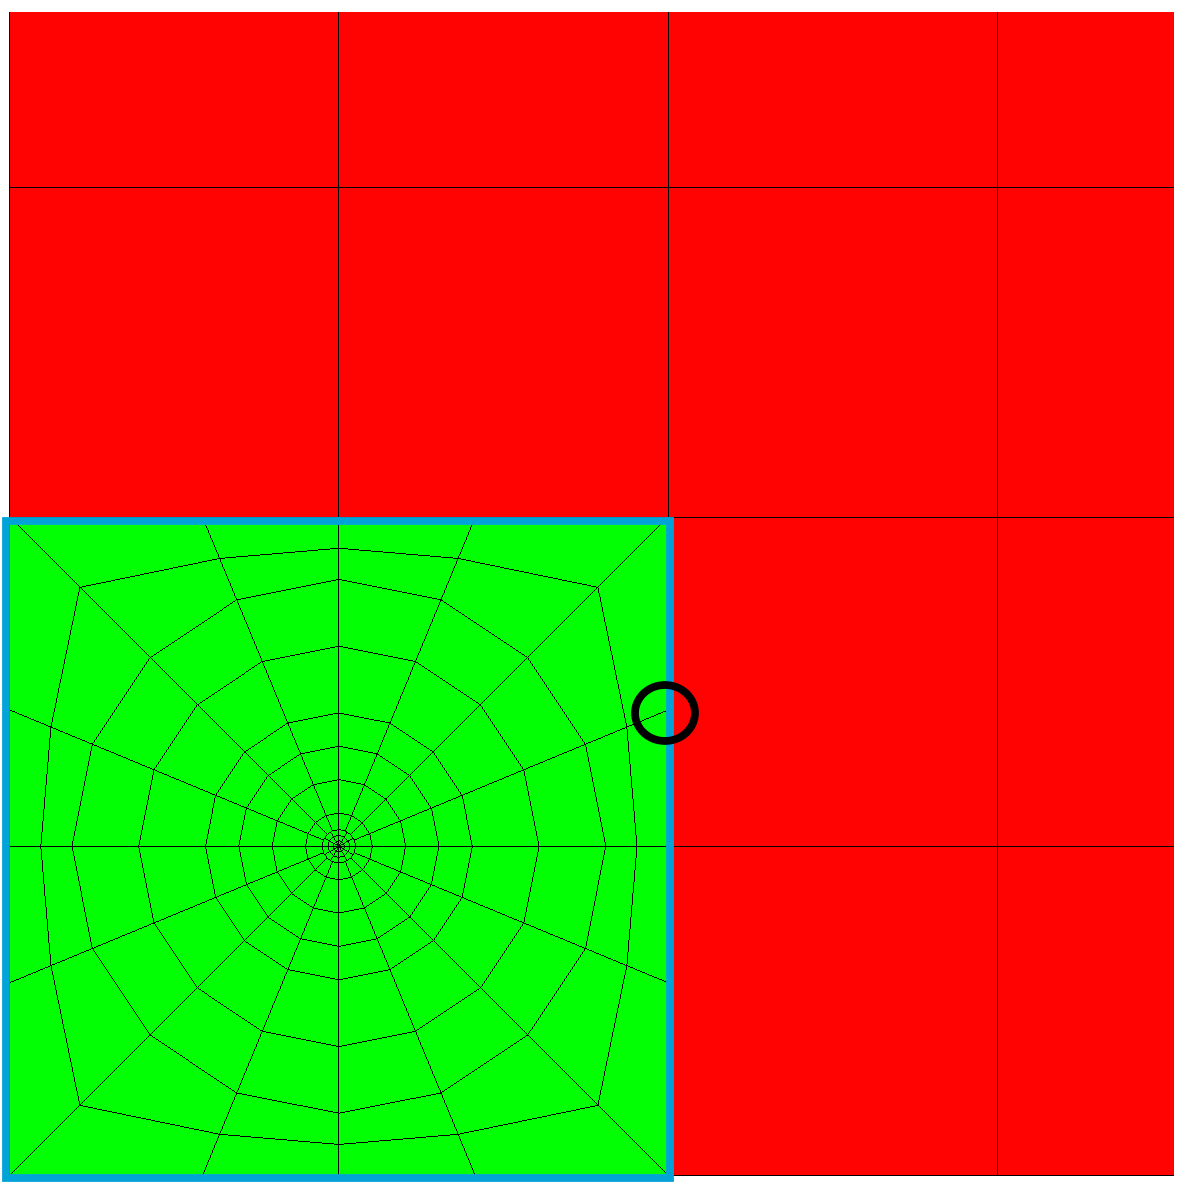
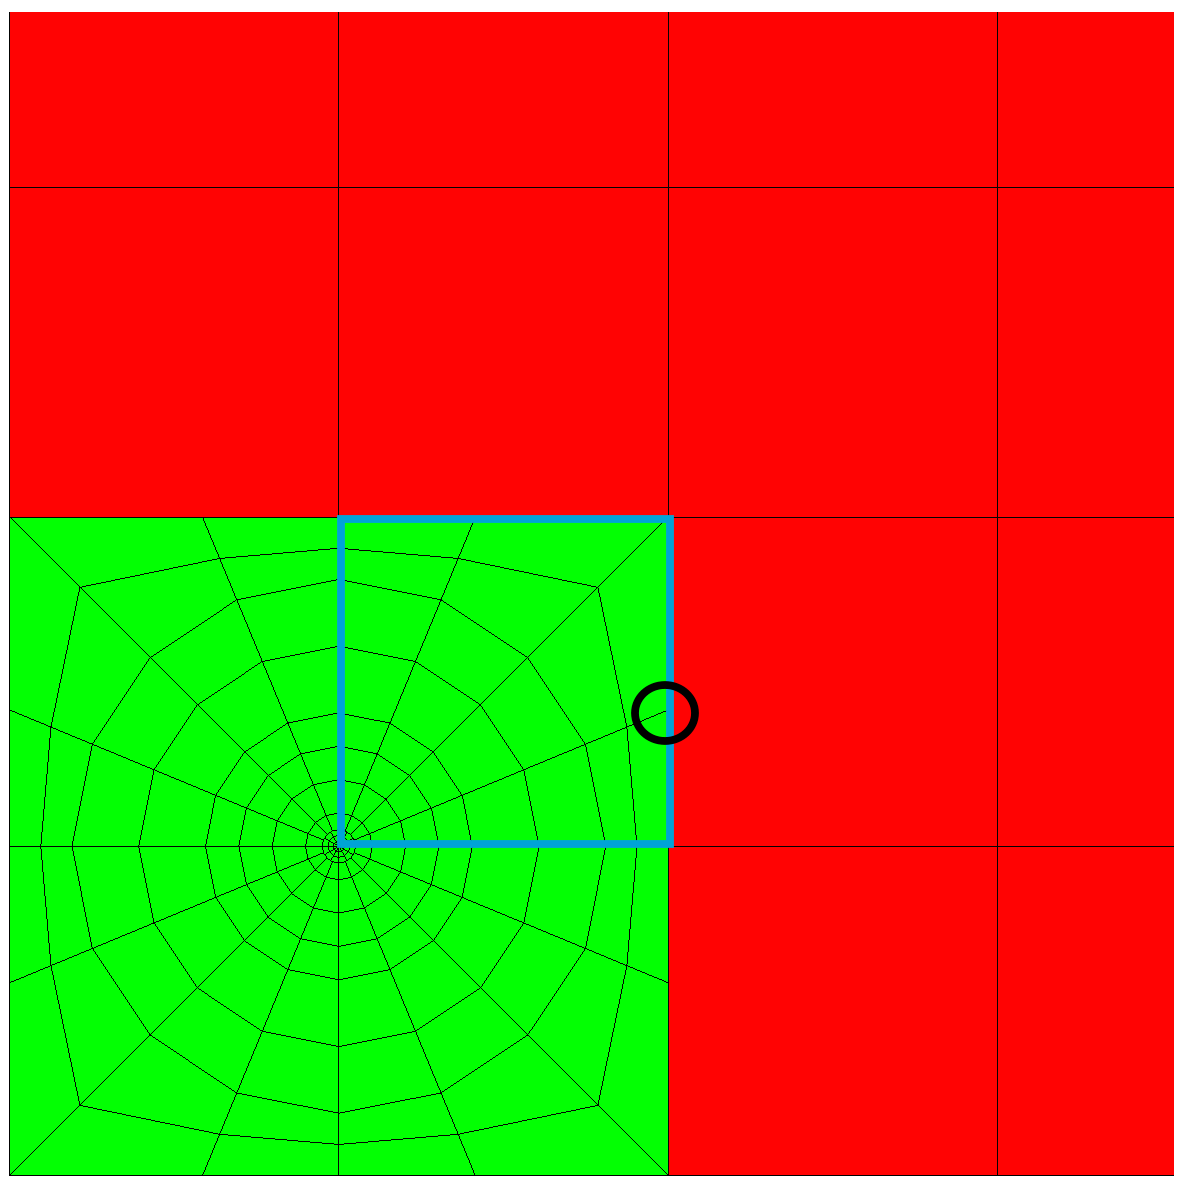
Adding lb stuff and modifying figures.

Changed region(s): [[0.0, 0.4338, 0.5787, 0.9916]]

diff --git a/Dissertation/data/load_balancing.tex b/Dissertation/data/load_balancing.tex
@@ -16,10 +16,10 @@
 
 Initially, PDT only swept on structured, logically Cartesian meshes. As the need to solve problems with more complex geometries arose, PDT added a support for arbitrary polyhedral unstructured meshes. However, this introduced imbalanced partitions (or different amounts of cells per processor), causing longer and unmanageable runtimes.
 
-To combat imbalanced partitions, two load balancing algorithms were implemented, referred to in this thesis as the original load balancing algorithm \cite{mastersthesis,mc2017} and the load balancing by dimension algorithm.
+To combat imbalanced partitions, two load balancing algorithms were implemented, referred to in this thesis as the original load-balancing algorithm \cite{mastersthesis,mc2017} and the load-balancing-by-dimension algorithm.
 
 Before detailing the two load balancing algorithms PDT employs, a quick review of partitioning unstructured meshes in PDT is necessary:
-\begin{itemize}\itemsep 1pt \parskip 0pt \parsep 0pt
+\begin{itemize}
 \item ``Cut lines'' in 2D (``cut planes'' in 3D) are used to slice through the mesh in the $x$, $y$, and $z$ dimensions.
 \item The cut planes form brick partitions, called subsets, that have unstructured meshes inside of them. 
 \item Discontinuities along subset boundaries are fixed by ``stitching'' hanging nodes, creating degenerate polygons along subset boundaries.
@@ -27,30 +27,41 @@ Before detailing the two load balancing algorithms PDT employs, a quick review o
 \end{itemize}
 Using cut lines/cut planes to partition unstructured meshes preserved the provably optimal sweep partitioning \cite{mpadams2013,mpadams2015} of logically Cartesian grids. 
 Subsets, rather than the cells, have $(i,j,k)$ indices and will become the base unit when aggregating spatial parameters. That is, $A_x$ and $A_y$ will now represent the number of subsets in $x$ and $y$ aggregated into a task. 
+Figure \ref{partitioning_example} shows an example of an unstructured mesh partitioned into 100 subsets in PDT. 
+\begin{figure}[H]
+\centering
+\includegraphics[scale=0.2]{../figures/spiderweb_10x10_sparse.png}
+\caption{An unstructured mesh partitioned into 100 subsets with cut lines at 1 cm intervals in both dimensions}
+\label{partitioning_example}
+\end{figure}
 
 Upon creation, the subsets may have geometric discontinuities as a result of slicing through the mesh. 
 Figure \ref{hanging_node} shows an example of a hanging node across a subset boundary. 
 This node is stitched across the boundary to preserve geometric continuity, forming a degenerate polygon \cite{degenerate}(in Fig. \ref{hanging_node}, a degenerate square). 
-PDT uses Piece-Wise Linear Discontinuous (PWLD) finite-element basis functions \cite{pwld_ragusa,pwld_teresa} that allow for solutions on degenerate polyhedra. 
+PDT uses Piece-Wise Linear Discontinuous (PWLD) finite-element basis functions \cite{pwld_ragusa,pwld_teresa} that allow for solutions on arbitrary and degenerate polyhedra. 
 \begin{figure}[H]
   \centering
   \includegraphics[scale=0.2]{../../figures/hanging_node_spiderweb_example.png}
    \caption{A hanging node (circled in black) on a subset boundary (highlighted in blue).}
    \label{hanging_node}
 \end{figure}
-Figure \ref{partitioning_example} shows an example of an unstructured mesh partitioned into four subsets in PDT. 
-\begin{figure}[H]
-\centering
-\includegraphics[scale=0.4,trim={0.95in 0.64in 0.35in 0.44in},clip]{../figures/partitioning_example.pdf}
-\caption{An unstructured mesh partitioned into four subsets with cut planes at $\bm{x,y = 10}$ cm.}
-\label{partitioning_example}
-\end{figure}
-Both approaches to load balancing move these cut planes in order to redistribute cells more evenly throughout subsets. We define a metric describing how imbalanced our problem is:
+
+Both approaches to load balancing move cut lines in order to redistribute cells more evenly throughout subsets. We define a metric describing how imbalanced our problem is:
 \begin{equation}
 f =\frac{\underset{ijk}{\text{max}}(N_{ijk})}{\frac{N_{tot}}{I\cdot J\cdot K}},
 \label{metric_def}
 \end{equation}
-where $f$ is the load balance metric, $N_{ijk}$ is the number of cells in subset $(i,j,k)$, $N_{tot}$ is the global number of cells in the problem, and $I$, $J$, and $K$ are the total number of subsets in the $x$, $y$, and $z$ direction, respectively. The metric is a measure of the maximum number of cells per subset divided by the average number of cells per subset. For a perfectly balanced problem, $f = 1$.
+where $f$ is the load balance metric, $N_{ijk}$ is the number of cells in subset $(i,j,k)$, $N_{tot}$ is the global number of cells in the problem, and $I$, $J$, and $K$ are the total number of subsets in the $x$, $y$, and $z$ directions, respectively. The metric is a measure of the maximum number of cells per subset divided by the average number of cells per subset. For a perfectly balanced problem, $f = 1$.
+
+Figure \ref{redistribute} illustrates an example of redistributing the cut planes in $x$ to balance the cells per column.
+\begin{figure}[H]
+\centering
+\includegraphics[scale=0.4]{../figures/spiderweb_redistribute_before_sparse.pdf}
+\includegraphics[scale=0.4]{../figures/spiderweb_redistribute_after_sparse.pdf}
+\caption{The use of the CDF of cells per column to redistribute the cut lines in X.}
+\label{redistribute}
+\end{figure}
+The image on the left side of Fig. \ref{redistribute} shows the CDF of the triangles per column. The red lines on the right side of Fig. \ref{redistribute} show the ideal equal number of cells per column. The x-value of the intersection of these red lines and the CDF are where the cut planes are redistributed to. 
 
 Dimensional sub-metrics are defined to assist with the movement of the partitions:
 \begin{equation}
@@ -58,24 +69,14 @@ f_{D} = \underset{d}{\text{max}}[\sum_{d2,d3} N_{ijk}]/\frac{N_{tot}}{D}.
 \label{f_d}
 \end{equation}
 $f_{D}$ is calculated by taking the maximum number of cells per row, column, or plane and dividing it by the average number of cells per the corresponding dimension. If this number is greater than predefined tolerances, the cut planes in the respective dimension are redistributed. 
-
-Figure \ref{redistribute} illustrates an example of redistributing the cut planes in $x$ to balance the cells per column.
-\begin{figure}[H]
-\centering
-\includegraphics[scale=0.4]{../figures/redistribute_before.pdf}
-\includegraphics[scale=0.4]{../figures/redistribute_after.pdf}
-\caption{The use of the CDF of triangles per column to redistribute the cut planes in X.}
-\label{redistribute}
-\end{figure}
-The image on the left side of Fig. \ref{redistribute} shows the CDF of the triangles per column. The red lines on the right side of Fig. \ref{redistribute} show the ideal equal number of cells per column. The x-value of the intersection of these red lines and the CDF are where the cut planes are redistributed to. 
  
-\section{Original Load Balancing Algorithm}
+\section{Original load-balancing Algorithm}
 \label{sec:og_lb}
 
 The initial approach to load balancing was implemented on 2D extruded meshes, meaning the mesh is balanced in the 2D plane and then extruded, yielding a balanced 3D mesh. Algorithm \ref{initial_algorithm} summarizes the initial approach to load balancing meshes in PDT.
 
 \begin{algorithm}[H]
-\caption{The original load balancing algorithm.}
+\caption{The original load-balancing algorithm.}
 \label{initial_algorithm}
 \begin{algorithmic}
 
@@ -92,7 +93,7 @@ The initial approach to load balancing was implemented on 2D extruded meshes, me
 While the problem is not balanced, we check if the cells per column and cells per row, represented by $f_I$ and $f_J$ (defined by Eq. (\ref{f_d})), are balanced. If they are not, we redistribute the corresponding cut planes.
 %\vspace{-3.5cm}
 
-The original load balancing algorithm placed cut lines in all dimensions all the way through the mesh. This created an orthogonal partitioning where each subset had an equivalent number of neighbors, which was done to preserve the optimal sweep partitioning described by Adams et. al \cite{mpadams2015}. However, there are theoretical limits to load balancing in this fashion. Figure \ref{2dgeneral} shows a simple 2D subset layout with $M$ unaligned patches with $N$ cells each.
+The original load-balancing algorithm placed cut lines in all dimensions all the way through the mesh. This created an orthogonal partitioning where each subset had an equivalent number of neighbors, which was done to preserve the optimal sweep partitioning described by Adams et. al \cite{mpadams2015}. However, there are theoretical limits to load balancing in this fashion. Figure \ref{2dgeneral} shows a simple 2D subset layout with $M$ unaligned patches with $N$ cells each.
 
 \begin{figure}[H]
 \centering
@@ -105,12 +106,12 @@ The subset layout is $M^2$, but only $M$ subset have significant work, leading t
 f= \frac{N}{(MN+C)/M^2} \xrightarrow{N\to \infty} \frac{N}{N/M} = M
 \end{equation}
 
-Due to this theoretical limit, the load balancing by dimension algorithm was developed.
+Due to this theoretical limit, the load-balancing-by-dimension algorithm was developed.
 
-\section{Load Balancing by Dimension Algorithm}
+\section{Load-Balancing-by-Dimension Algorithm}
 \label{sec:lbd}
 
-The load balancing by dimension algorithm, like the original load balancing algorithm, relies on the movement of cut planes to redistribute mesh cells in a more balanced manner. However rather than moving all cut planes in all dimensions in one iteration, one dimension is balanced first for all iterations, and then the cut planes that yield the best metric for that dimension are chosen. Then the next dimensions is balanced within the first dimension. For example, if the $x$ cut planes are balanced first, the $y$ cut planes are balanced \textit{within} each column.
+The load-balancing-by-dimension by dimension algorithm, like the original load balancing algorithm, relies on the movement of cut planes to redistribute mesh cells in a more balanced manner. However rather than moving all cut planes in all dimensions in one iteration, one dimension is balanced first for all iterations, and then the cut planes that yield the best metric for that dimension are chosen. Then the next dimensions is balanced within the first dimension. For example, if the $x$ cut planes are balanced first, the $y$ cut planes are balanced \textit{within} each column.
 We slightly alter the definition for our dimensional sub-metrics (Eq. (\ref{f_d})) accordingly:
 \begin{align}
 f_{D1} &= \underset{d1}{\text{max}}[\sum_{d2,d3} N_{ijk}]/\frac{N_{tot}}{D1}, \label{f_d1} \\
@@ -121,10 +122,10 @@ Equation (\ref{f_d1}) represents the sub-metric for the first dimension we load 
 
 Once the z planes are balanced according to $f_{D1}$, we balance the second dimension (in this example, the columns, or $x$ cut planes) \textit{within} each $z$ plane. $f_{D2,d1}$ represents the column-wise sub-metrics for each $z$ plane. In other words, there are $D1$ column-wise sub-metrics, one for each plane. These column-wise sub-metrics are calculated by dividing the maximum number of cells per column divided by the average number cells per column \textit{in each plane}. 
 
-Once the columns within each z-plane are balanced, we balance the rows $within$ the columns $within$ each plane. The row-wise sub-metrics for each plane for each column, $f_{D3,d2,d1}$, are calculated by dividing the maximum number of cells per row per column by the average number of cells per row per column in each plane. Algorithm \ref{lbd} summarizes the load balancing by dimension process described. 
+Once the columns within each z-plane are balanced, we balance the rows $within$ the columns $within$ each plane. The row-wise sub-metrics for each plane for each column, $f_{D3,d2,d1}$, are calculated by dividing the maximum number of cells per row per column by the average number of cells per row per column in each plane. Algorithm \ref{lbd} summarizes the load-balancing-by-dimension process described. 
 
 \begin{algorithm}[H]
-\caption{The load balancing by dimension algorithm.}
+\caption{The load-balancing-by-dimension algorithm.}
 \label{lbd}
 \begin{algorithmic}
 
@@ -156,19 +157,19 @@ Figure \ref{alg_illustration} illustrates the behavior of both algorithms. In th
 \centering
 \includegraphics[scale=0.45,trim={0.95in 0.64in 0.35in 0.44in},clip]{../figures/og_lb_example.pdf}
 \includegraphics[scale=0.45,trim={0.95in 0.64in 0.35in 0.44in},clip]{../figures/lbd_example.pdf}
-\caption{The partitions of a problem after the original load balancing (left) and the load balancing by dimension (right) algorithms.}
+\caption{The partitions of a problem after the original load balancing (left) and the load-balancing-by-dimension (right) algorithms.}
 \label{alg_illustration}
 \end{figure}
 
 
 \section{RESULTS}
 
-To show the behavior of the original load balancing algorithm and the load balancing by dimension algorithm, the problem shown in Fig. \ref{partitioning_example} was run with a varying number of subsets and with a varying maximum triangle area, with the minimum allowable angle per triangle was kept constant at \ang{20}. We varied the number of subsets in $x$ and $y$ from 2 to 10 (with the total number of subsets varying from 4 to 100). The problem illustrated by Fig. \ref{partitioning_example} was chosen because it has two dense features in opposing corners with no features in between, lending itself to being an imbalanced mesh. Table \ref{og_table} shows the results of this parametric study using the original load balancing algorithm vs. using the load balancing by dimension algorithm. Table \ref{all_improvements} shows the percent improvements for both algorithms from no load balancing to running both load balancing algorithm, while Table \ref{method_improvement} shows the improvement of the load balancing by dimension algorithm relative to the original load balancing algorithm.
+To show the behavior of the original load balancing algorithm and the load-balancing-by-dimension algorithm, the problem shown in Fig. \ref{partitioning_example} was run with a varying number of subsets and with a varying maximum triangle area, with the minimum allowable angle per triangle was kept constant at \ang{20}. We varied the number of subsets in $x$ and $y$ from 2 to 10 (with the total number of subsets varying from 4 to 100). The problem illustrated by Fig. \ref{partitioning_example} was chosen because it has two dense features in opposing corners with no features in between, lending itself to being an imbalanced mesh. Table \ref{og_table} shows the results of this parametric study using the original load balancing algorithm vs. using the load-balancing-by-dimension algorithm. Table \ref{all_improvements} shows the percent improvements for both algorithms from no load balancing to running both load balancing algorithm, while Table \ref{method_improvement} shows the improvement of the load-balancing-by-dimension algorithm relative to the original load balancing algorithm.
 
 %\vspace{-1cm}
 \begin{table}[H]
 \centering
-  \caption{\bf The results of the parametric study using the original load balancing algorithm (left) and the load balancing by dimension algorithm (right).}
+  \caption{\bf The results of the parametric study using the original load balancing algorithm (left) and the load-balancing-by-dimension algorithm (right).}
   \scalebox{0.5}{
   \begin{tabular}{c|c|c|c|c|c|c|c|c|c} 
   \bf Area, $N^{1/2}$ & \bf  2 &  \bf 3    &  \bf  4   &  \bf  5   &  \bf  6   &  \bf  7   & \bf   8   &  \bf 9    &  \bf 10   \\ \hline \hline
@@ -219,7 +220,7 @@ To show the behavior of the original load balancing algorithm and the load balan
 
 \begin{table}[H]
 \centering
-\caption{\bf The percent improvement of the original load balancing algorithm (left) and the load balancing by dimension algorithm (right).}
+\caption{\bf The percent improvement of the original load balancing algorithm (left) and the load-balancing-by-dimension algorithm (right).}
 \scalebox{0.5}{
 \begin{tabular}{c|c|c|c|c|c|c|c|c|c} 
 
